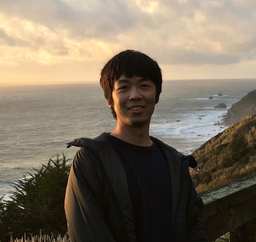
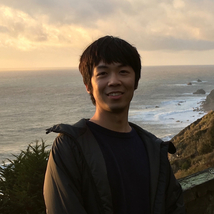
image fixes

diff --git a/about.html b/about.html
@@ -56,12 +56,12 @@
 						<p>Write description here</p>
 					</div>
 					<div class="profile chengfei">	
-						<img src="images/chengfei.png" alt="Chengfei Profile">
+						<img src="images/chengfei.png" height="210" width="210" alt="Chengfei Profile">
 						<h3>Chengfei He</h3>
 						<p>Chengfei He is a Ph.D. candidate in atmospheric science program of the department of Geography. Chengfei's research focus on the mechanism of climate change of the past and future. More information can be found at: [https://yefee.github.io/]</p>
 					</div>
 					<div class="profile xin">	
-						<img src="images/xin.jpg" alt="Xin Profile">
+						<img src="images/xin.jpg" height="210" width="210" alt="Xin Profile">
 						<h3>Xin Xu</h3>
 						<p>Xin is a CSE master at the Ohio State University. He is interested in computer network, and eSports.</p>
 					</div>
